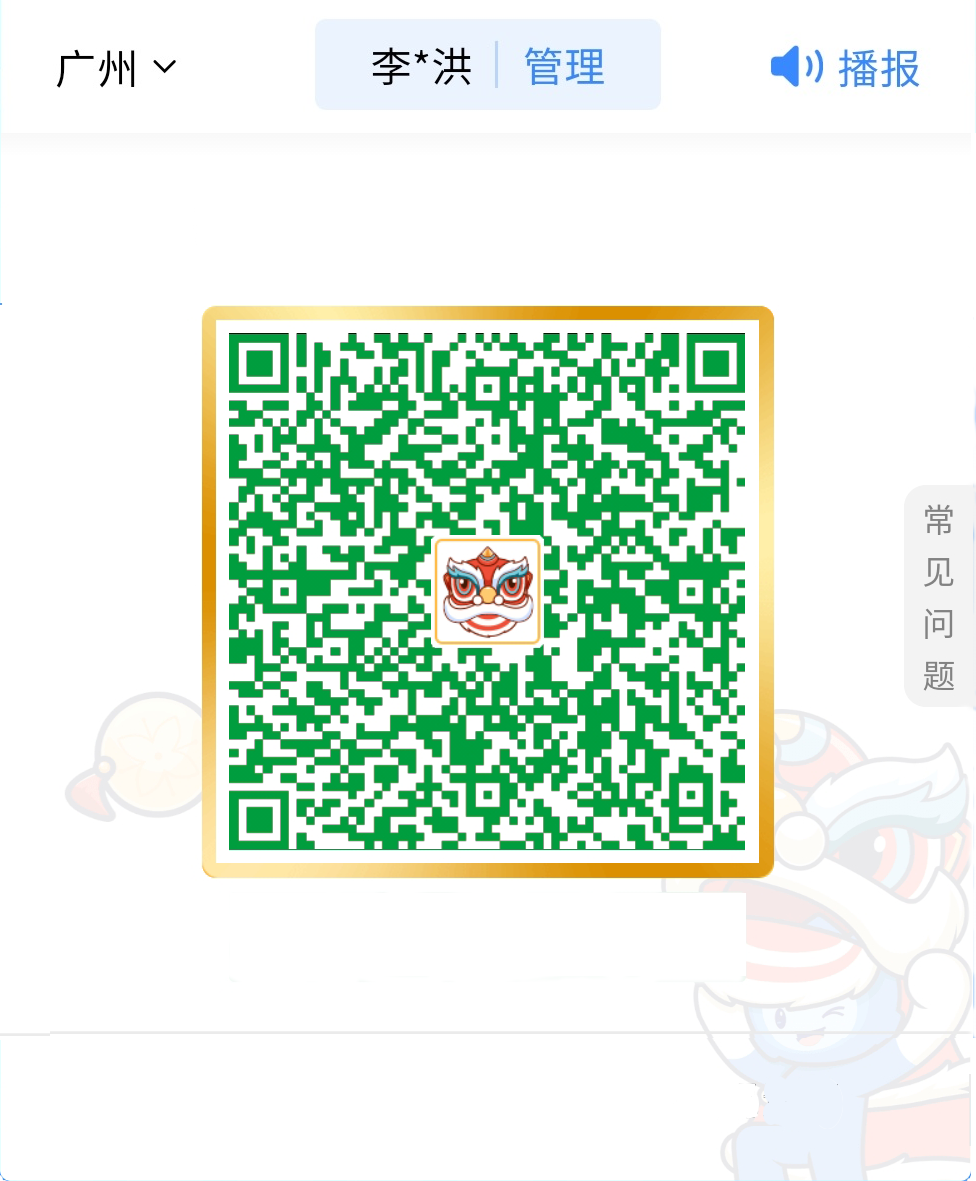
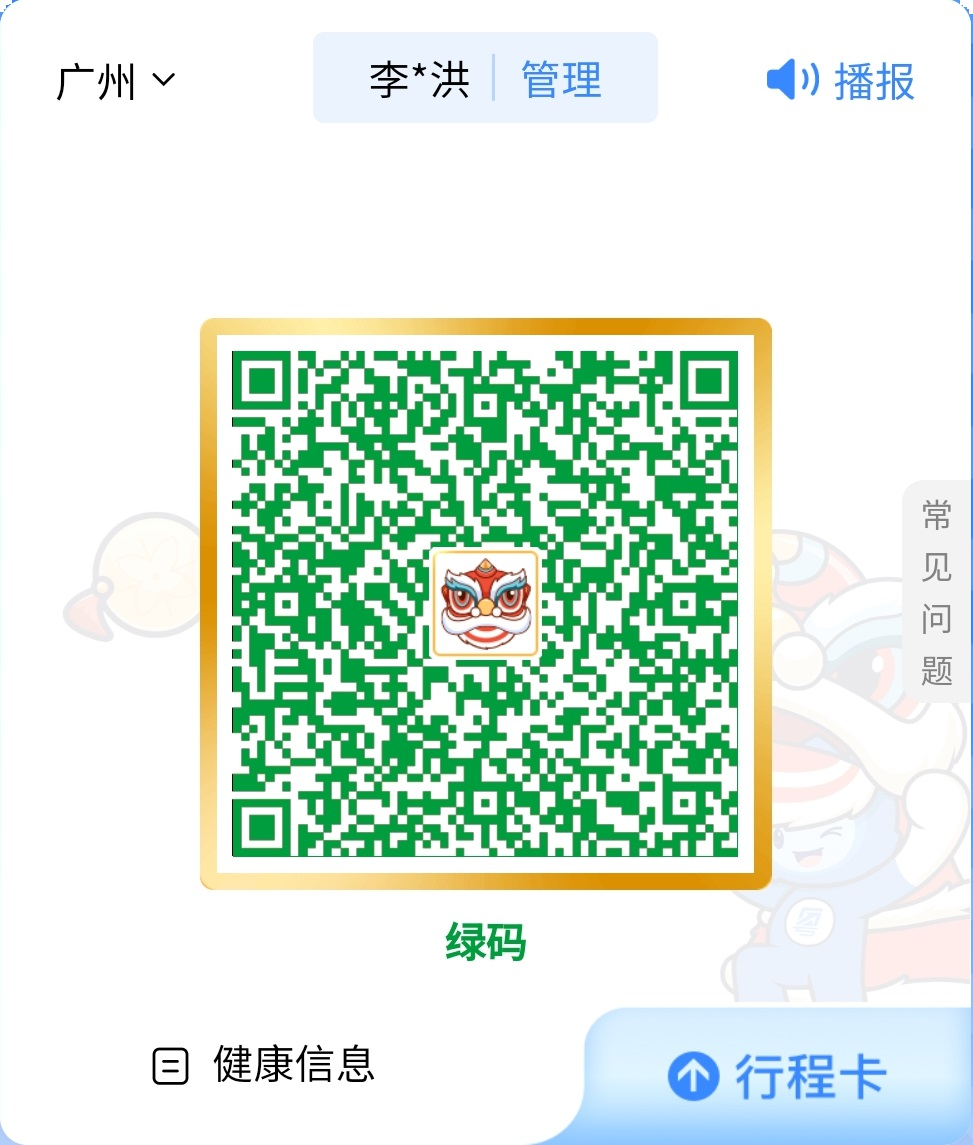
Add files via upload

diff --git a/main.css b/main.css
@@ -51,7 +51,7 @@ animation-fill-mode:backwards;
 /*margin-top:-.45rem;*/
 margin-top:0rem;
 /*设置往上移*/
-height:680px;
+height:480px;
 /*设置背景滚动高度*/
 
 position:relative
@@ -209,7 +209,7 @@ background:url(./lm.png) no-repeat 25px 2px;
   border:0px solid red;
   
 }
-.top_3_main{
+#.top_3_main{
   
   position: absolute;
   width: 100%;
@@ -222,7 +222,7 @@ flex-direction:row;
 justify-content : space-between;
 }
 
-.top_3_main_1{
+#.top_3_main_1{
   position: absolute;
 width:170px;
 min-height:60px;
@@ -232,7 +232,7 @@ background:url(./jkxx.png) no-repeat 40px 17px;
   
   
 }
-.top_3_main_m{
+#.top_3_main_m{
   position: absolute;
 width:10px;
 min-height:60px;
@@ -245,7 +245,7 @@ background:url(./s.png) no-repeat -6px -8px;
   
 }
 
-.top_3_main_2_s{
+#.top_3_main_2_s{
   
   position: absolute;
 width:20px;
@@ -258,7 +258,7 @@ background:url(./sys.png) no-repeat 0px 8px;
   
   
 }
-.top_3_main_2_zi{
+#.top_3_main_2_zi{
   position: absolute;
 width:80px;
 min-height:60px;
@@ -271,7 +271,7 @@ font-size: 15px;
   
 }
 
-.top_3_main_2{
+#.top_3_main_2{
   position: absolute;
   right: 0px;
 width:170px;
@@ -281,7 +281,7 @@ min-height:60px;
 
 
 
-.second_main{
+#.second_main{
 width:350px;
 min-height:100px;
 
@@ -295,10 +295,10 @@ justify-content : space-between;
 
 
 
-.second-main_1{
+#.second-main_1{
   
 width:170px;
-min-height:130px;
+min-height:150px;
  /*background-color:#fff; */
 border-radius:0px;
 -webkit-box-shadow:0 0 0 0 #dedede;
@@ -323,7 +323,7 @@ width:100%;
 }
 
 
-.second-main_2{
+#.second-main_2{
   
 width:170px;
 min-height:130px;
@@ -343,7 +343,7 @@ flex-direction:column;
 
 
 
-.second-main_1_xgym{
+#.second-main_1_xgym{
 
   
   position: absolute;
@@ -356,7 +356,7 @@ background:url(./xgym.png) no-repeat 0px 8px;
   background-size: 75% ;
   
 }
-.second-main_1_qcjz{
+#.second-main_1_qcjz{
 
   
   position: absolute;
@@ -370,7 +370,7 @@ background:url(./qcjz.png) no-repeat 0px 0px;
   
 }
 
-.ym_date{
+#.ym_date{
   position: absolute;
   bottom: 16px;
 width:100%;
@@ -403,7 +403,7 @@ from {
 }
 .after_bg {
   
-  height: 513px;
+  height: 857px;
   width: 100%;
   
 background:url(./end_1.jpg) no-repeat ;
